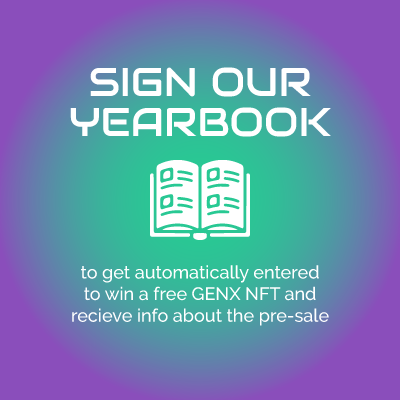
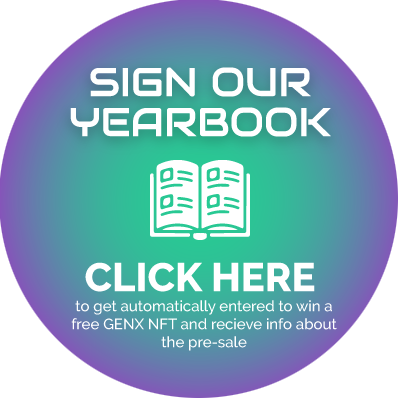
New button

diff --git a/src/components/Header.js b/src/components/Header.js
@@ -10,15 +10,31 @@ export default function Header() {
 	return (
 		<div className="header" id="start">
 			<img src={headerImg} alt="Gen X NFT COllection" className="headerImg" />
-			<a
-				href="https://forms.gle/YjrkKMRmg1FZXtZ96"
-				target="_blank"
-				rel="noopener noreferrer"
-				className="yearbookList"
-			>
-				{' '}
-				<img src={yearbookIcon} alt="Yearbook" />{' '}
-			</a>
+			<div className="callToActions">
+				<a
+					href="https://docs.google.com/forms/d/e/1FAIpQLSfBiZKHLosrWMQL-tPemaXES9MSxCS9QhRXTVNydUbHMrxmcw/viewform"
+					target="_blank"
+					rel="noopener noreferrer"
+					className="emailList"
+				>
+					<p>
+						Please click here to stay in the loop... and be entered to WIN your
+						own Latchkey Kid NFT!
+					</p>
+					<br />
+					<p>
+						<strong>Click here</strong>
+					</p>
+				</a>
+				<a
+					href="https://forms.gle/YjrkKMRmg1FZXtZ96"
+					target="_blank"
+					rel="noopener noreferrer"
+					className="yearbookList"
+				>
+					<img src={yearbookIcon} alt="Yearbook" />{' '}
+				</a>
+			</div>
 			<div className="headerContainer">
 				<div className="imgBox">
 					<img src={cassette} alt="Cassette" className="cassette" />

diff --git a/public/index.html b/public/index.html
@@ -24,10 +24,10 @@
       Learn how to configure a non-root public URL by running `npm run build`.
     -->
   <title>GEN-X NFTS</title>
-  <script
+  <!-- <script
     id="mcjs">!function (c, h, i, m, p) { m = c.createElement(h), p = c.getElementsByTagName(h)[0], m.async = 1, m.src = i, p.parentNode.insertBefore(m, p) }(document, "script", "https://chimpstatic.com/mcjs-connected/js/users/9f0bb117888e375ec2ff853c7/1304f11e0cb110b71a0c7c357.js");</script>
   <script
-    id="mcjs">!function (c, h, i, m, p) { m = c.createElement(h), p = c.getElementsByTagName(h)[0], m.async = 1, m.src = i, p.parentNode.insertBefore(m, p) }(document, "script", "https://chimpstatic.com/mcjs-connected/js/users/9f0bb117888e375ec2ff853c7/ebaba681317ed94a4feb48187.js");</script>
+    id="mcjs">!function (c, h, i, m, p) { m = c.createElement(h), p = c.getElementsByTagName(h)[0], m.async = 1, m.src = i, p.parentNode.insertBefore(m, p) }(document, "script", "https://chimpstatic.com/mcjs-connected/js/users/9f0bb117888e375ec2ff853c7/ebaba681317ed94a4feb48187.js");</script> -->
 </head>
 
 <body>

diff --git a/src/styles/_header.scss b/src/styles/_header.scss
@@ -10,14 +10,37 @@
 		max-width: 1223px;
 		margin: 0 auto;
 	}
-	.yearbookList {
-		text-align: center;
-		display: block;
+	.callToActions {
 		margin: 0 auto;
-		img {
-			max-width: 400px;
-			width: 100%;
-			height: auto;
+		max-width: 800px;
+		width: 100%;
+		@include centerBox(space-evenly, center);
+		.emailList {
+			width: 350px;
+			margin: 0 auto;
+
+			strong {
+				background: linear-gradient(
+					266.69deg,
+					rgba(255, 255, 255, 0.4) 2.73%,
+					rgba(255, 255, 255, 0) 97.27%
+				);
+				box-shadow: 0px 4px 24px -1px rgb(0 0 0 / 10%);
+				-webkit-backdrop-filter: blur(40px);
+				backdrop-filter: blur(40px);
+				padding: 10px 30px;
+				border-radius: 40px;
+			}
+		}
+		.yearbookList {
+			text-align: center;
+			display: block;
+			margin: 0 auto;
+			img {
+				max-width: 350px;
+				width: 100%;
+				height: auto;
+			}
 		}
 	}
 	.headerContainer {
